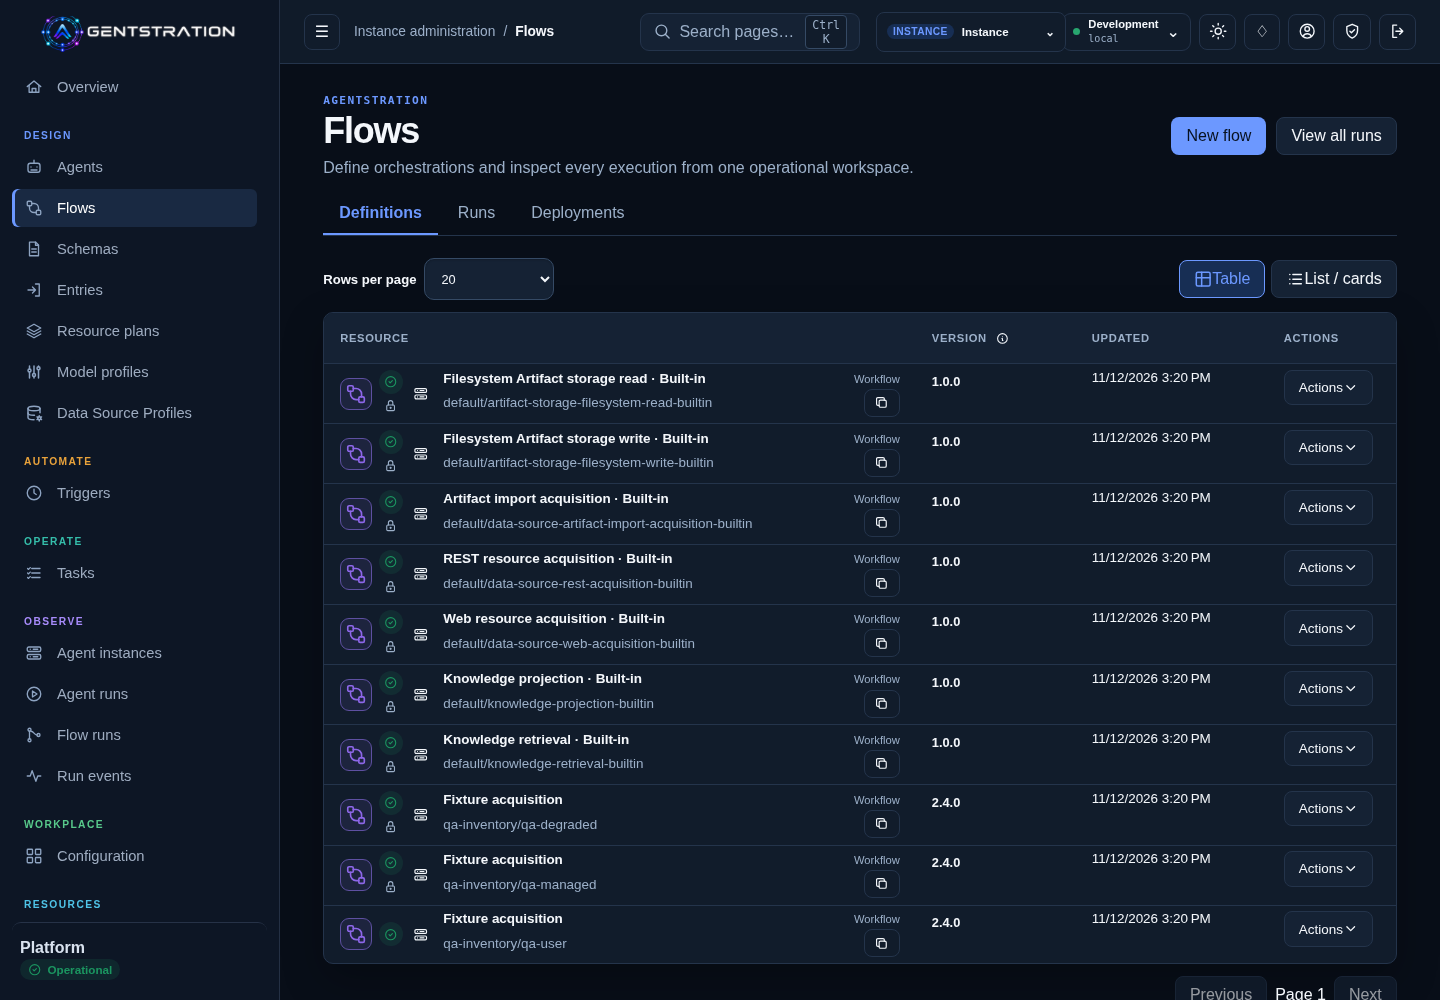
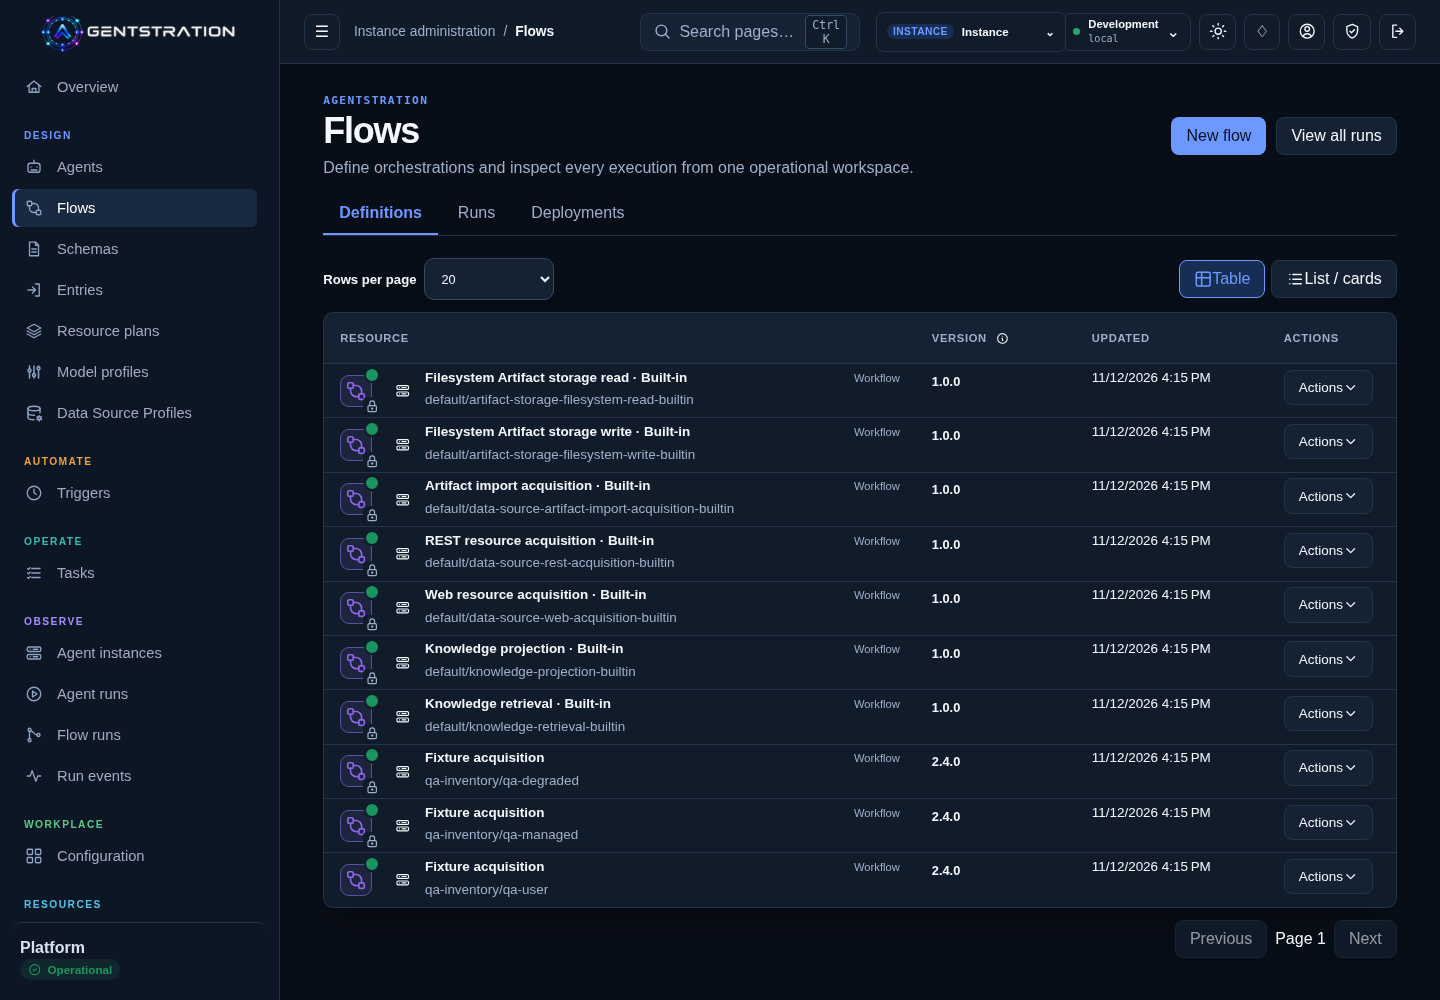
docs(ux): refresh real Flow captures for corner indicators

diff --git a/docs/ux/evidence/1121/flows-compact/README.md b/docs/ux/evidence/1121/flows-compact/README.md
@@ -1,6 +1,6 @@
 # Compact Flow prototype — real application evidence
 
-These ten unedited viewport screenshots come from the real Console on product source `e78ea22` (2026-11-12), using disposable local QA data and the existing governed inventory fixture. No mockup or generated image is used. The Local administrator selects the explicit Instance context so managed/inherited visibility is exercised under the actual scope policy. The draft rows are newly created through the Flow API; the first is published as `1.0.0` and retains its real draft revision `r1`.
+These ten unedited viewport screenshots come from the real Console on product source `d8de2fa` (2026-11-12), using disposable local QA data and the existing governed inventory fixture. No mockup or generated image is used. The Local administrator selects the explicit Instance context so managed/inherited visibility is exercised under the actual scope policy. The draft rows are newly created through the Flow API; the first is published as `1.0.0` and retains its real draft revision `r1`.
 
 | Variant | Existing managed/read-only resources | Version table | Version cards |
 | --- | --- | --- | --- |
@@ -13,6 +13,6 @@ These ten unedited viewport screenshots come from the real Console on product so
 
 ![French dark mobile cards](flows-cards-mobile-fr-dark.png)
 
-All **four final prototype cases passed**, zero failures/skips/flakes. They verify the complete 20-row first page and 20-row offset page against real API responses, next/previous availability, changing to 50 rows and resetting to page one, unknown total, exact qualified copy, number alignment and the reserved trailing draft marker. Hover, focus, actual touch activation, Escape, action-menu keyboard navigation/focus, no accidental navigation and the real exact resource-name destination are exercised. The earlier four maintained cross-family version/primary-choice checks also passed; see [their recorded output](maintained-checks.txt).
+All **four final prototype cases passed**, zero failures/skips/flakes. They verify the complete 20-row first page and 20-row offset page against real API responses, next/previous availability, changing to 50 rows and resetting to page one, unknown total, exact qualified copy, number alignment and the adjacent draft pencil. Geometry assertions verify the status dot at the family icon’s top-right corner, the read-only lock at its bottom-right corner, copy adjacent to the qualified name, desktop copy visibility on hover/focus and permanent touch visibility. Hover, focus, actual touch activation, Escape, action-menu keyboard navigation/focus, no accidental navigation and the real exact resource-name destination are exercised. The earlier four maintained cross-family version/primary-choice checks also passed; see [their recorded output](maintained-checks.txt).
 
 [Structured results and image checksums](results.json). [Design, semantics and adoption boundary](../../../flow-compact-1121.md). Only Flows Definitions adopts this compact presentation pending explicit UX validation. Both implementation and coverage PRs remain drafts; no acceptance or merge is implied.
